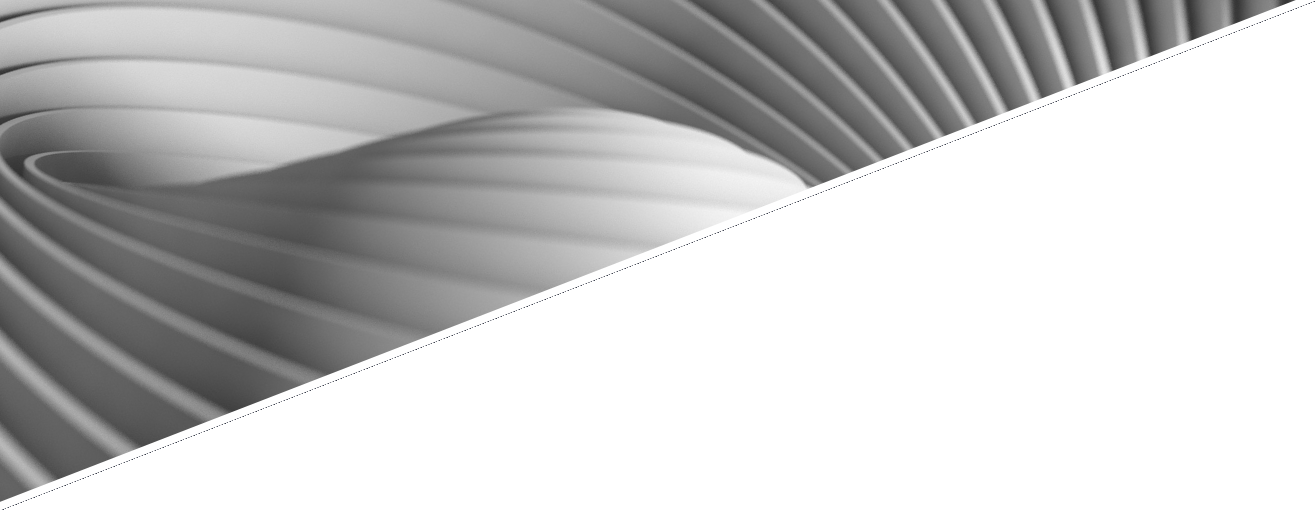
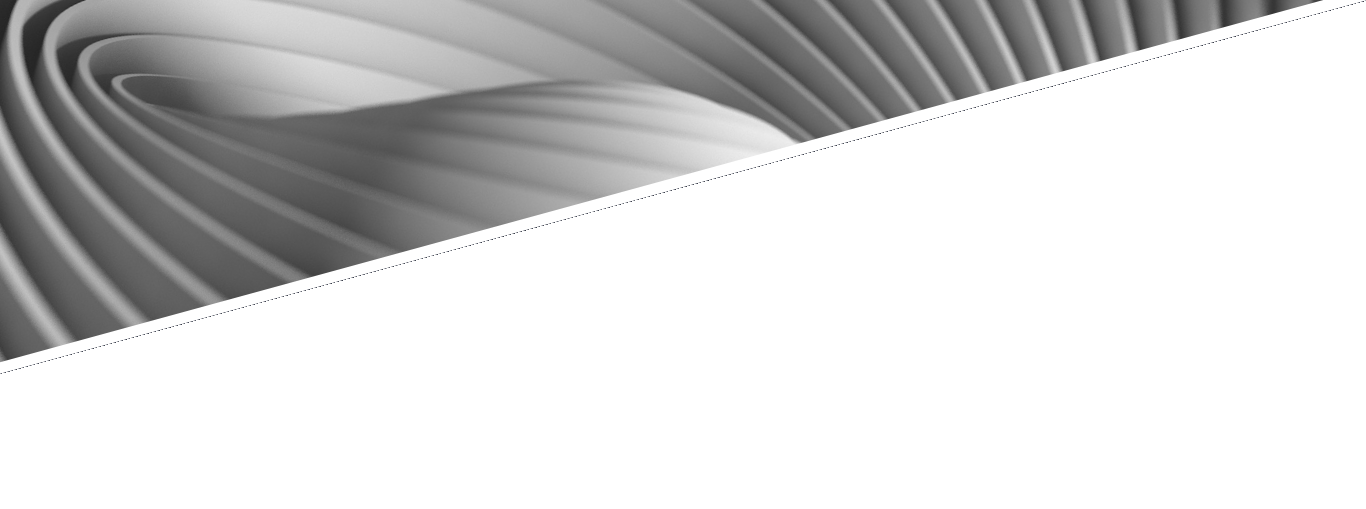
homepage ok

diff --git a/css/style.css b/css/style.css
@@ -477,7 +477,7 @@ body {
     height: 20vw;
     background-color: whitesmoke;
     transform: scaleY(-1);
-    top: 10.3%;
+    top: 10.5%;
     padding: 0;
     z-index: -2;
 }
@@ -540,7 +540,7 @@ body {
     clip-path: polygon(50% 0%, 100% 38%, 82% 100%, 18% 100%, 0% 38%);
     transform: rotate(-58.5deg);
     left: 82%;
-    top: 41.1%;
+    top: 41.3%;
     z-index: -1;
 }
 
@@ -1538,7 +1538,7 @@ a:hover {
 }
 
 #userCenteredDesign {
-    top: 23%;
+    top: 18%;
     left: 31%; 
 }
 

diff --git a/index.html b/index.html
@@ -3,7 +3,7 @@
 
 <head>
     <meta charset="UTF-8">
-    <meta name="viewport" content="width=device-width, initial-scale=1.0">
+    <meta name="viewport" content="width=device-width, initial-scale=1.0, maximum-scale=1, user-scalable=no">
     <!--BOOTSTRAP-->
     <link href="https://cdn.jsdelivr.net/npm/bootstrap@5.3.2/dist/css/bootstrap.min.css" rel="stylesheet"
         integrity="sha384-T3c6CoIi6uLrA9TneNEoa7RxnatzjcDSCmG1MXxSR1GAsXEV/Dwwykc2MPK8M2HN" crossorigin="anonymous">
